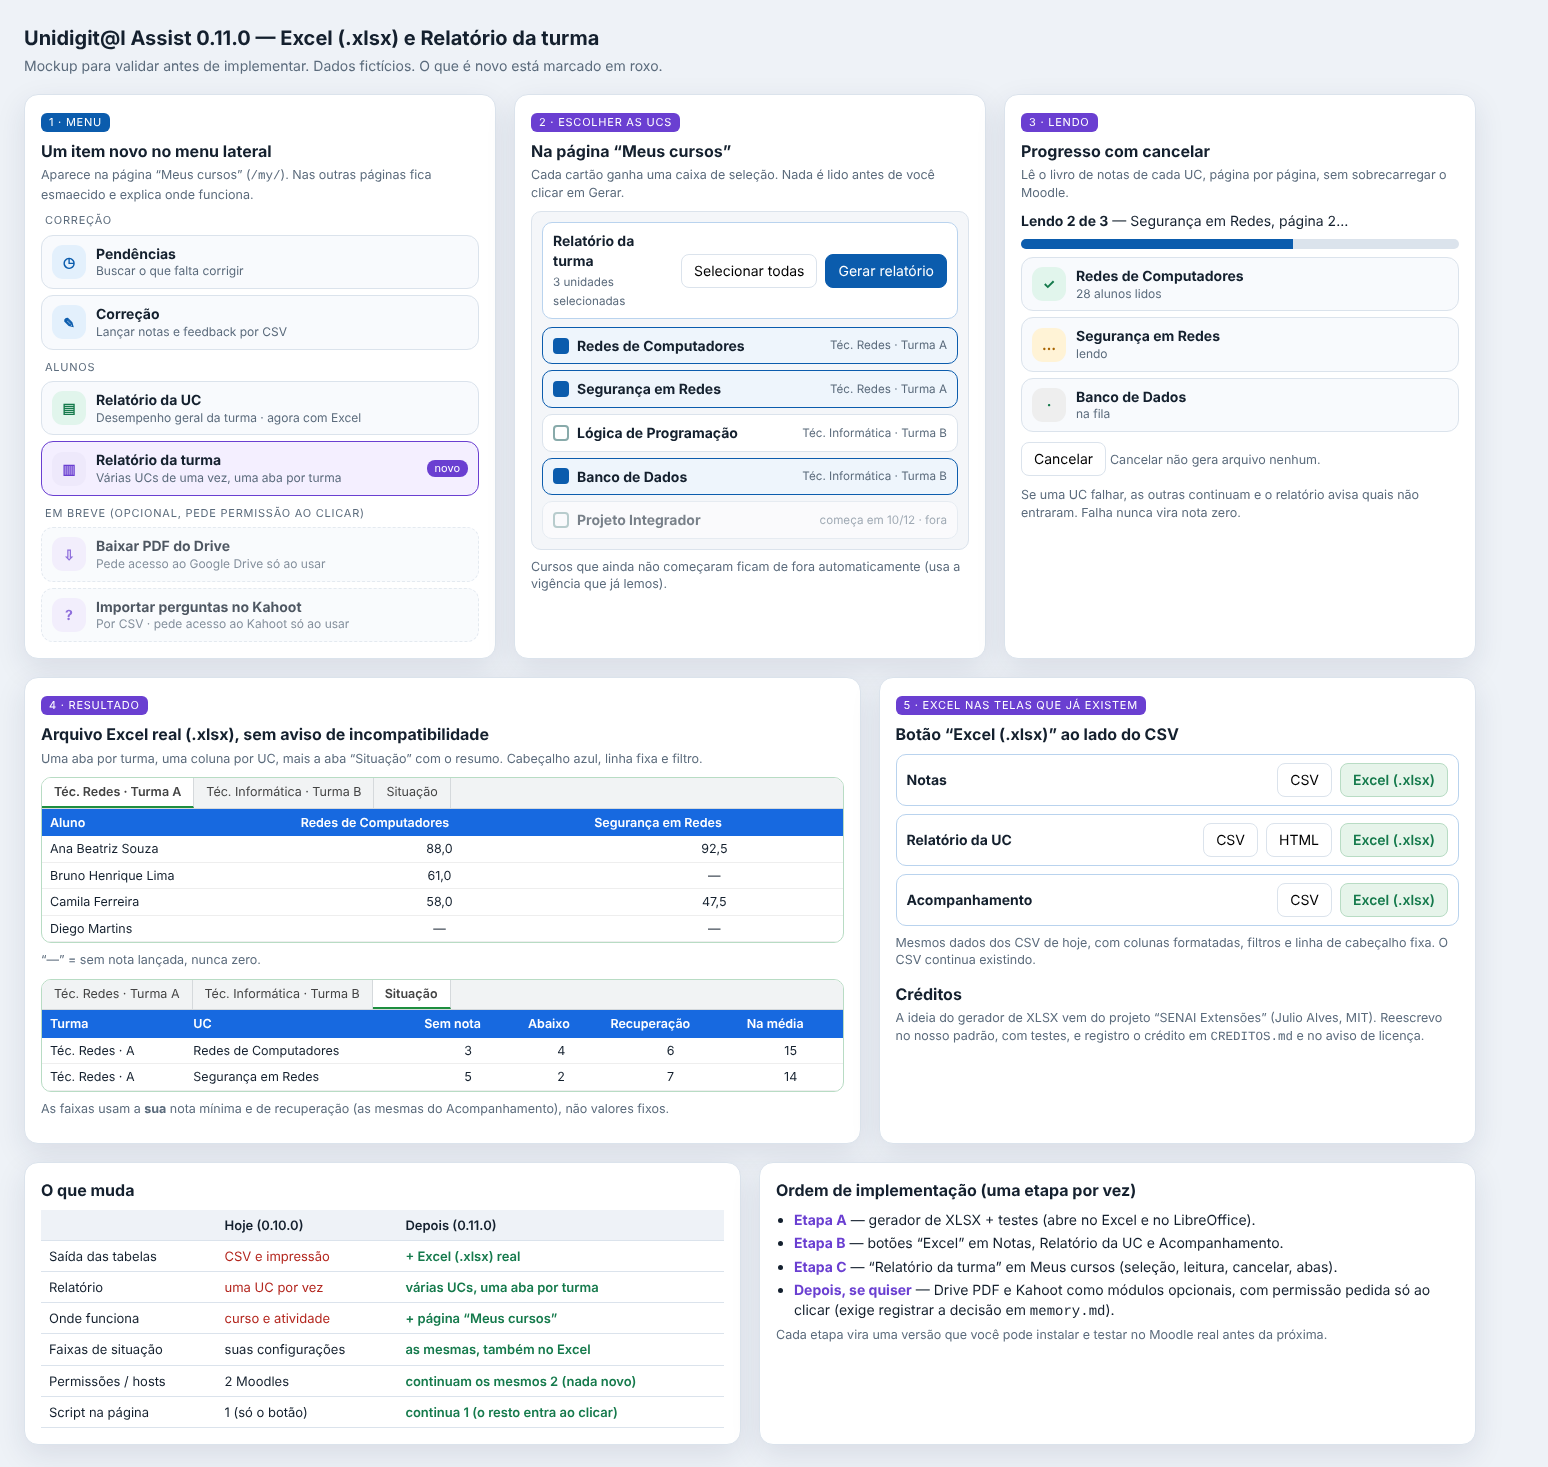
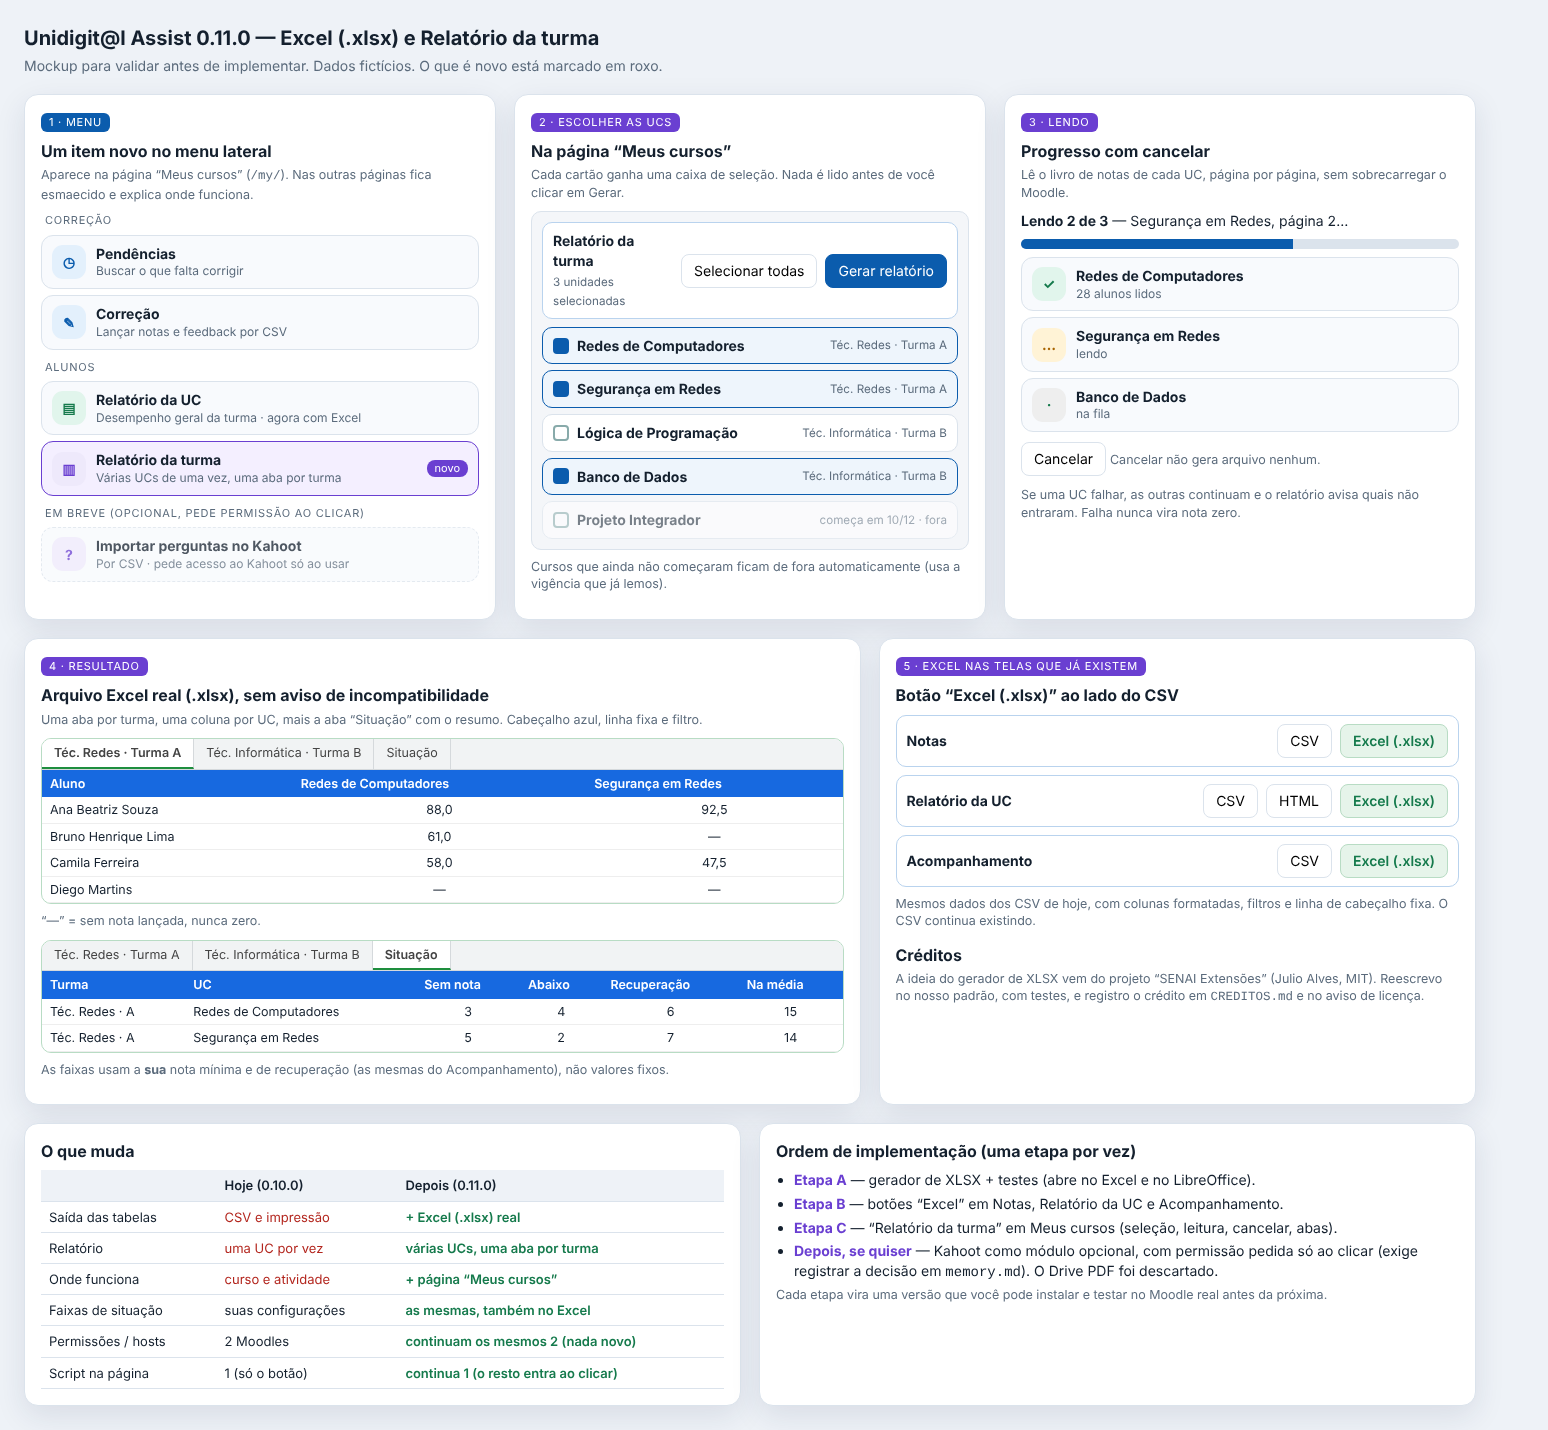
docs: descarta o módulo Drive PDF e registra a análise do senai-extensoes
Claude-Session: https://claude.ai/code/session_018SDmnztaCV1uHBsRTSaU9u

diff --git a/docs/mockups/relatorio-turma-xlsx.html b/docs/mockups/relatorio-turma-xlsx.html
@@ -44,7 +44,6 @@ table{border-collapse:collapse;width:100%}th{background:#1769e0;color:#fff;text-
 <div class="app"><span class="sym">▤</span><span><b>Relatório da UC</b><small>Desempenho geral da turma · agora com Excel</small></span></div>
 <div class="app" style="border-color:var(--new);background:#f4efff"><span class="sym" style="background:#eee9fb;color:var(--new)">▥</span><span><b>Relatório da turma</b><small>Várias UCs de uma vez, uma aba por turma</small></span><span class="newb">novo</span></div>
 <div class="sec">Em breve (opcional, pede permissão ao clicar)</div>
-<div class="app soon"><span class="sym">⇩</span><span><b>Baixar PDF do Drive</b><small>Pede acesso ao Google Drive só ao usar</small></span></div>
 <div class="app soon"><span class="sym">?</span><span><b>Importar perguntas no Kahoot</b><small>Por CSV · pede acesso ao Kahoot só ao usar</small></span></div>
 </div>
 
@@ -105,6 +104,6 @@ table{border-collapse:collapse;width:100%}th{background:#1769e0;color:#fff;text-
 <ul><li><span class="k">Etapa A</span> — gerador de XLSX + testes (abre no Excel e no LibreOffice).</li>
 <li><span class="k">Etapa B</span> — botões “Excel” em Notas, Relatório da UC e Acompanhamento.</li>
 <li><span class="k">Etapa C</span> — “Relatório da turma” em Meus cursos (seleção, leitura, cancelar, abas).</li>
-<li><span class="k">Depois, se quiser</span> — Drive PDF e Kahoot como módulos opcionais, com permissão pedida só ao clicar (exige registrar a decisão em <code>memory.md</code>).</li></ul>
+<li><span class="k">Depois, se quiser</span> — Kahoot como módulo opcional, com permissão pedida só ao clicar (exige registrar a decisão em <code>memory.md</code>). O Drive PDF foi descartado.</li></ul>
 <p class="sub">Cada etapa vira uma versão que você pode instalar e testar no Moodle real antes da próxima.</p></div>
 </div>

diff --git a/docs/contexto/memory.md b/docs/contexto/memory.md
@@ -89,3 +89,6 @@ Decisões do usuário: repositório continua **público**; licença **MIT** (© 
 
 ## 2026-10-31 — 0.10.0: fila de envio de mensagens
 Mockup aprovado pelo usuário. Decisões: (1) lógica pura em `core/fila.js` (um por vez, pausa de 2 s, nunca reenvia `enviada`, "tentar de novo" só `falhou`, para após 3 falhas seguidas); (2) reaproveita `messenger.send` (conferência por leitura de volta) e o registro de contatos; (3) mantém a regra de nunca pular revisão/confirmação: botão só libera após "Revisei" e texto de cada aluno editável; (4) quem já foi contatado hoje vem desmarcado; (5) sem permissão nova. e2e 70/70; não homologado em Moodle real.
+
+## 2026-10-31 — Análise do repositório senai-extensoes (Julio Alves, MIT)
+Analisado para aproveitar o que serve ao fluxo. Decisões: (1) **aproveitar** a ideia do gerador de XLSX sem dependências (etapa A, depois botões "Excel" nas telas B) e do relatório de notas por turma a partir de `/my/` (etapa C), reescritos no nosso padrão, com testes, faixas de nota das configurações e crédito ao autor; (2) **descartado: módulo Drive PDF** (decisão do usuário) — contorna proteção de download escolhida pelo dono do arquivo; (3) Kahoot fica como possibilidade futura, só com permissão pedida no clique e decisão registrada; (4) não copiar permissões amplas (`tabs`, `activeTab`), vários scripts de conteúdo nem `innerHTML` com dado externo.
